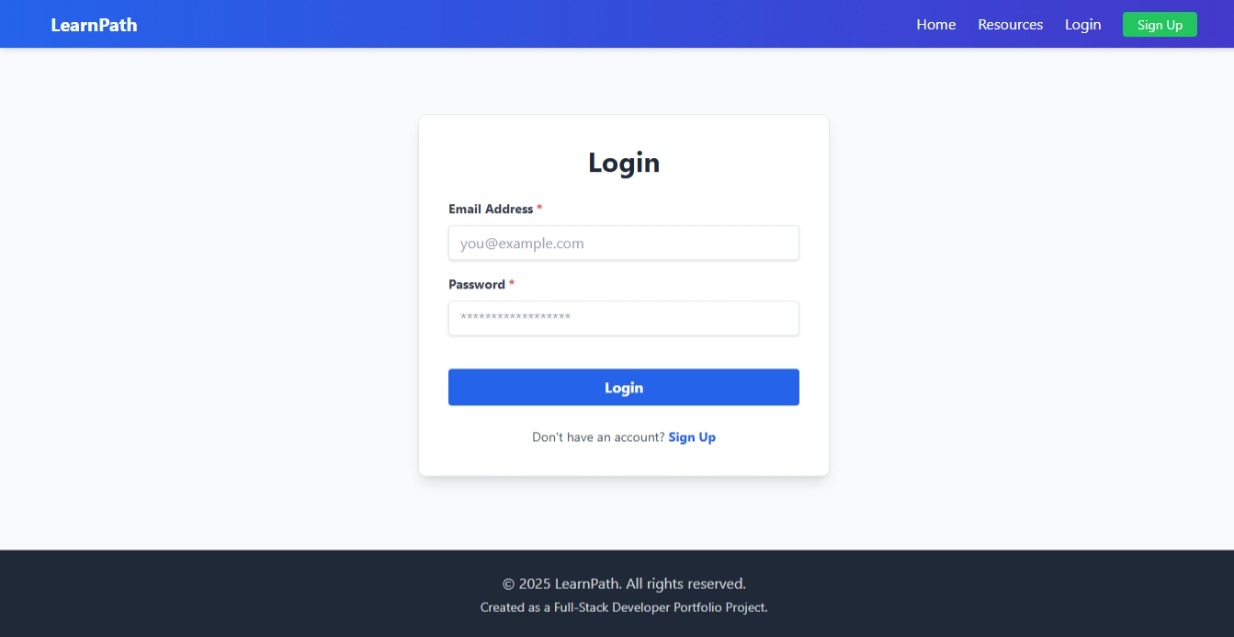
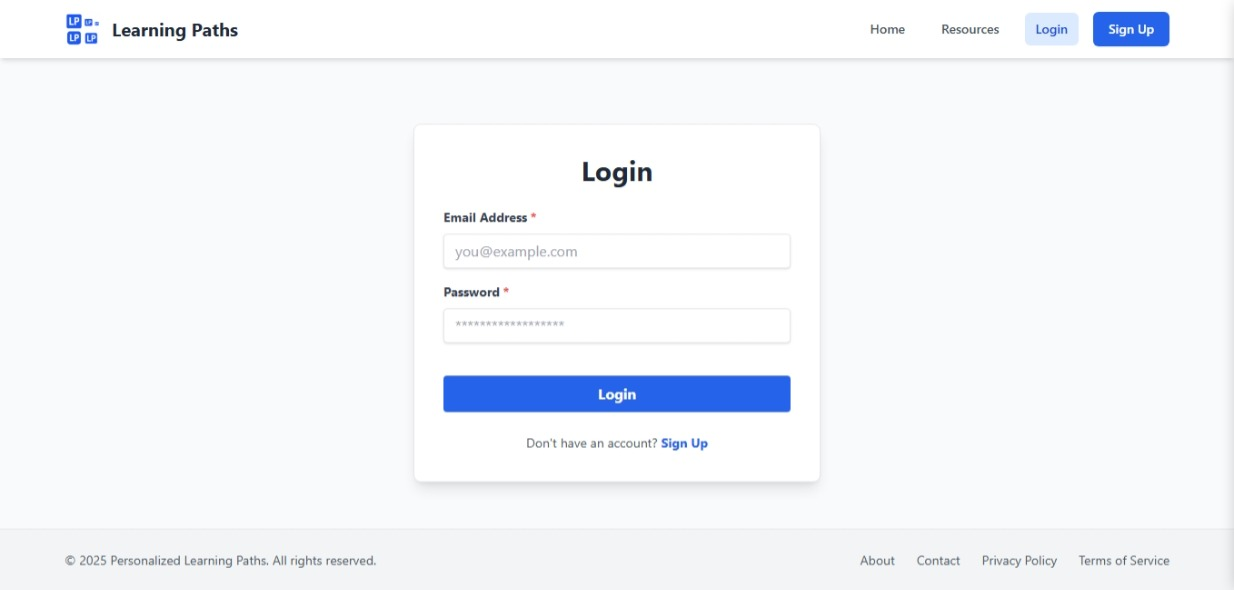
Update README.md

diff --git a/README.md b/README.md
@@ -1,10 +1,9 @@
-# LearnPath - Personalized Learning Path App
+# Learning Paths - Personalized Learning Path App
 
-[![License: MIT](https://img.shields.io/badge/License-MIT-yellow.svg)](https://opensource.org/licenses/MIT) 
 
-LearnPath is a full-stack web application designed to generate personalized learning paths for students based on their interests, goals, and current knowledge level. This application aims to empower lifelong learners by providing curated resources and a clear roadmap for their educational journey. This project was built as a portfolio piece to showcase full-stack development skills.
+Learning Paths is a full-stack web application designed to generate personalized learning paths for students based on their interests, goals, and current knowledge level. This application aims to empower lifelong learners by providing curated resources and a clear roadmap for their educational journey. This project was built as a portfolio piece to showcase full-stack development skills.
 
-![LearnPath Dashboard Screenshot](./images/userdashboard.jpeg) 
+![Learning Paths Landing Page Screenshot](./images/landingpage.jpeg) 
 
 ---
 
@@ -23,6 +22,7 @@ LearnPath is a full-stack web application designed to generate personalized lear
 *   [Challenges Faced & Solutions](#challenges-faced--solutions)
 *   [Future Improvements](#future-improvements)
 *   [Author](#author)
+*   [License](#license)
 
 ---
 
@@ -40,13 +40,13 @@ Here are some glimpses of the LearnPath application:
 
 | Page                | Screenshot                                       |
 | :------------------ | :----------------------------------------------- |
-| Homepage            | ![Homepage](./images/homepage.jpeg)                   |
+| Homepage            | ![Homepage](./images/landingpage.jpeg)                   |
 | Login               | ![Login Page](./images/loginpage.jpeg)                |
-| Sign Up             | ![Sign Up Page](docs/signuppage.png)             |
-| Dashboard           | ![Dashboard](./images/userdashboard.jpeg)             |
-| Learning Path View  | ![Learning Path View](./images/generatedlearningpathview.jpeg) |
-| Resource Library    | ![Resource Library](./images/resourceslibrary.jpeg)   |
-| User Profile        | ![User Profile](./images/profilepage.jpeg)            |
+| Sign Up             | ![Sign Up Page](images/signuppage.jpeg)             |
+| Dashboard           | ![Dashboard](./images/dashboard.jpeg)             |
+| Learning Path View  | ![Learning Path View](./images/mypath.jpeg) |
+| Resource Library    | ![Resource Library](./images/resourcelibrary.jpeg)   |
+| User Profile        | ![User Profile](./images/profile.jpeg)            |
 
 
 ---
@@ -209,3 +209,8 @@ You need to create `.env` files for both the server and client directories.
 
 ---
 
+## License
+
+*   **[![License: MIT](https://img.shields.io/badge/License-MIT-yellow.svg)](https://opensource.org/licenses/MIT) 
+
+---
